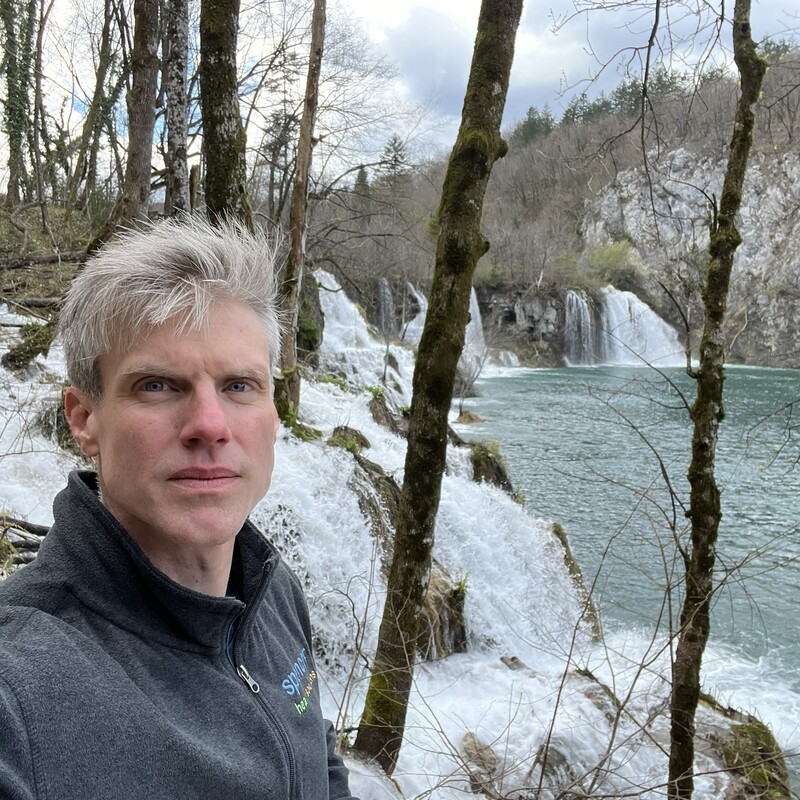
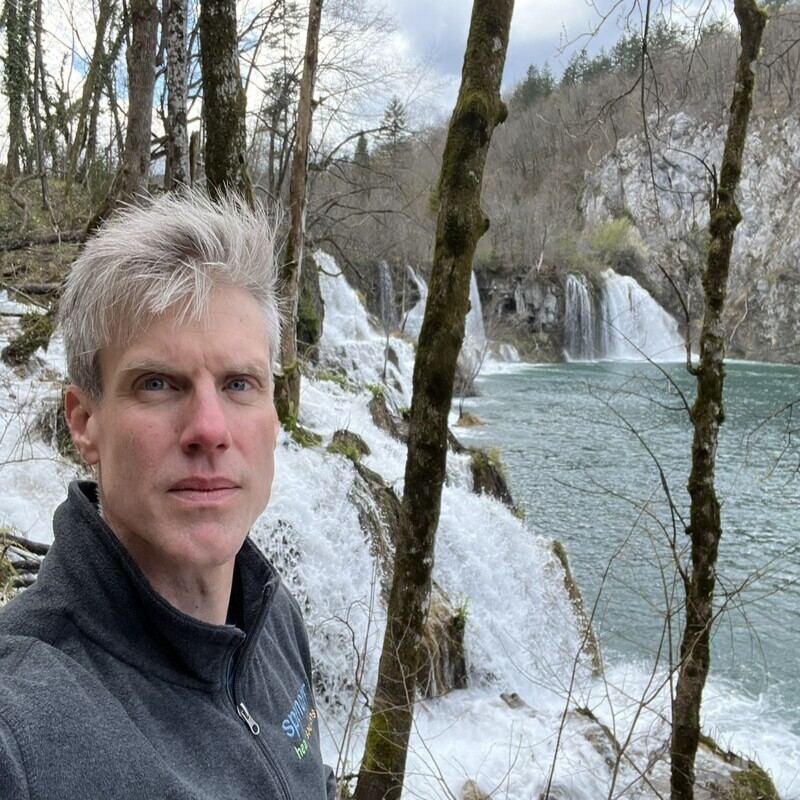
Recrop Arun and Ben headshots for better centering
Crop headshots to better center faces in circular frames:
- Arun: Crop to square focused higher on face
- Ben: Crop with center gravity for better framing
- Remove custom positioning code (no longer needed)

🤖 Generated with [Claude Code](https://claude.com/claude-code)

diff --git a/slides/components/MenuHeadshot.tsx b/slides/components/MenuHeadshot.tsx
@@ -26,13 +26,6 @@ export default function MenuHeadshot({ name, imageUrl }: MenuHeadshotProps) {
     }
   }, [fullImageUrl]);
 
-  // Adjust positioning for specific people
-  const getObjectPosition = () => {
-    if (name === 'Arun Advani') return 'center 35%';
-    if (name === 'Ben Ogorek') return 'center 40%';
-    return 'center center';
-  };
-
   return (
     <div className="w-14 h-14 rounded-full overflow-hidden bg-pe-teal/20 border-2 border-pe-teal/30 flex-shrink-0 shadow-md">
       {fullImageUrl && imageExists ? (
@@ -40,7 +33,6 @@ export default function MenuHeadshot({ name, imageUrl }: MenuHeadshotProps) {
           src={fullImageUrl}
           alt={name}
           className="w-full h-full object-cover"
-          style={{ objectPosition: getObjectPosition() }}
         />
       ) : (
         <div className="w-full h-full flex items-center justify-center bg-gradient-to-br from-pe-teal/30 to-pe-teal/10">
